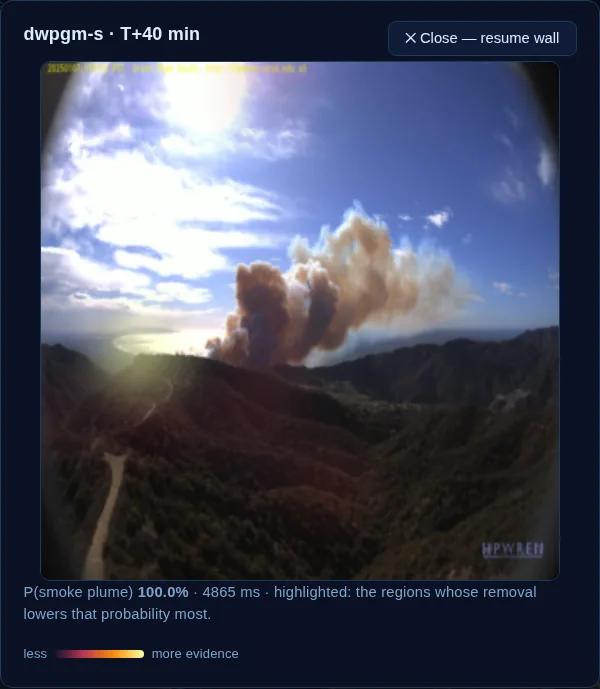
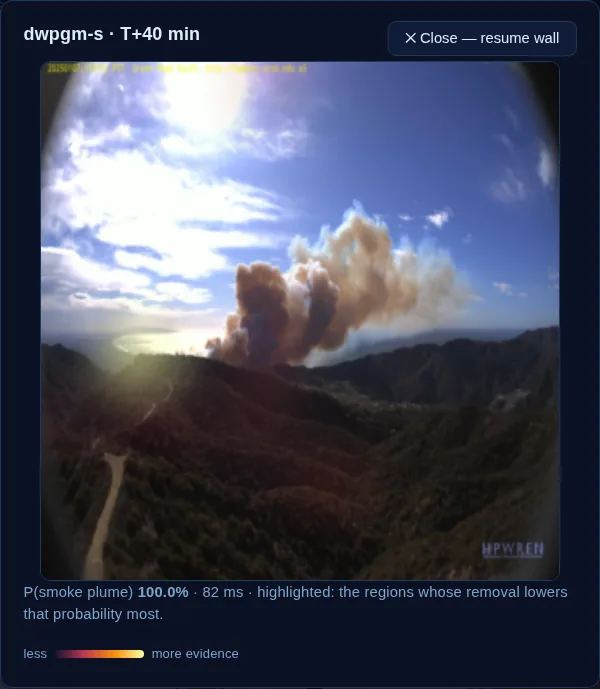
fix: Keep wall controls fire-free and curb false alarms
A no-fire control showed a real plume and one fire raised many alerts
before its smoke, both on the Watch Wall of wildfire_smoke_watch.

- control_margin_seconds: a no-event control stops 15 min before the
  annotated start. ml-n's smoke probability is 83% at -14 min and 98% at
  -1 min: a plume was visible before the annotation
- early_grace_seconds: an alert up to 5 min before the annotated start is
  an early detection (counted as a detection, shown amber), not a false
  alarm; a control never gets grace
- stricter default alert rule (70%, 3 frames) and a second slider for
  frames in a row; syp-n's white cloud and a bird crossing the sky push
  single frames to 99% at the old 50% / 2 frames
- one-line verdict under each tile, early count in the false-alarm KPI
- docs: explain both lookouts honestly, and that the new defaults were
  chosen after watching the wall on the test cameras (optimistic)

Changed region(s): [[0.03, 0.8534, 0.96, 0.9144]]

diff --git a/ui-react/src/CameraWallView.tsx b/ui-react/src/CameraWallView.tsx
@@ -43,7 +43,10 @@ export function CameraWallView({
     0,
     labelsOf(scenario).findIndex((l) => l.key === extra.positive_label),
   );
-  const pool = useMemo(() => groupCameras(samples.data ?? [], positiveIndex), [samples.data, positiveIndex]);
+  const pool = useMemo(
+    () => groupCameras(samples.data ?? [], positiveIndex, extra.control_margin_seconds),
+    [samples.data, positiveIndex, extra.control_margin_seconds],
+  );
   // Which of the held-out cameras are on the wall: the scenario's default until the viewer swaps them.
   const [picked, setPicked] = useState<string[] | null>(null);
   const [pickerOpen, setPickerOpen] = useState(false);
@@ -59,6 +62,7 @@ export function CameraWallView({
   const [running, setRunning] = useState(true);
   const [speed, setSpeed] = useState(1);
   const [threshold, setThreshold] = useState(extra.alert_threshold);
+  const [consecutive, setConsecutive] = useState(extra.consecutive_frames_to_alert);
   const [showCurve, setShowCurve] = useState(false);
   const [selected, setSelected] = useState<string | null>(null);
   const [liveError, setLiveError] = useState<string | null>(null);
@@ -105,7 +109,7 @@ export function CameraWallView({
   const scored = cameras.map((camera) => {
     const last = Math.min(step, camera.frames.length - 1);
     const ps = camera.frames.slice(0, last + 1).map((f) => live.current.get(f.id)?.p ?? f.pPre);
-    return { camera, last, ps, analysis: analyseCamera(camera, ps, threshold, extra.consecutive_frames_to_alert, step) };
+    return { camera, last, ps, analysis: analyseCamera(camera, ps, threshold, consecutive, step, extra.early_grace_seconds) };
   });
   const summary = summarise(cameras, scored.map((s) => s.analysis), step);
   const feed = scored
@@ -200,15 +204,19 @@ export function CameraWallView({
           <StatTile
             label="False alarms"
             value={String(summary.falseAlarms)}
-            sub={`of ${summary.alerts} alert${summary.alerts === 1 ? "" : "s"}`}
+            sub={`of ${summary.alerts} alert${summary.alerts === 1 ? "" : "s"}${summary.early ? ` · ${summary.early} early` : ""}`}
             color={summary.falseAlarms ? "var(--red)" : "var(--green)"}
-            info={`An alert raised before the ${noun} had appeared in that recording.`}
+            info={`An alert raised more than ${Math.round(extra.early_grace_seconds / 60)} min before the ${noun} appeared in that recording (or at all, on a no-fire control). An alert within ${Math.round(extra.early_grace_seconds / 60)} min before it is counted as an early detection instead: the annotation is when a person first saw the plume.`}
           />
         </div>
         <div className="dl-threshold">
           <label>
-            Alert when P({noun}) ≥ <strong>{pct(threshold, 0)}</strong> for {extra.consecutive_frames_to_alert} frames in a row
+            Alert when P({noun}) ≥ <strong>{pct(threshold, 0)}</strong>
             <input type="range" min={0.1} max={0.95} step={0.05} value={threshold} onChange={(e) => setThreshold(Number(e.target.value))} />
+          </label>
+          <label>
+            for <strong>{consecutive}</strong> frame{consecutive === 1 ? "" : "s"} in a row
+            <input type="range" min={1} max={6} step={1} value={consecutive} onChange={(e) => setConsecutive(Number(e.target.value))} />
           </label>
           <label className="dl-check">
             <input type="checkbox" checked={showCurve} onChange={(e) => setShowCurve(e.target.checked)} /> Show each camera's whole recording
@@ -294,10 +302,12 @@ export function CameraWallView({
           {feed.length === 0 && <p className="panel-hint">No alerts yet — every camera is quiet.</p>}
           <ul>
             {feed.map((a) => (
-              <li key={`${a.camera}-${a.index}`} className={a.falseAlarm ? "wall-alert wall-alert--false" : "wall-alert"}>
+              <li key={`${a.camera}-${a.index}`} className={`wall-alert${a.falseAlarm ? " wall-alert--false" : a.early ? " wall-alert--early" : ""}`}>
                 <strong>{a.camera}</strong> <span className="wall-when">{offsetLabel(a.seq)}</span>
                 <div>
-                  {a.falseAlarm
+                  {a.early
+                    ? `Early — ${noun} flagged ${Math.round(-a.seq / 60)} min before it was annotated as visible`
+                    : a.falseAlarm
                     ? isControl(a.camera)
                       ? `False alarm — ${noun} flagged, but this lookout has no fire`
                       : `False alarm — ${noun} flagged before it had appeared`
@@ -324,6 +334,26 @@ export function CameraWallView({
       )}
     </div>
   );
+}
+
+/** One line under a tile: what this camera has done so far. */
+function tileVerdict(camera: WallCamera, analysis: CameraAnalysis, index: number, noun: string): { text: string; tone: "ok" | "warn" | "bad" | "idle" } {
+  const falseAlarms = analysis.alerts.filter((a) => a.falseAlarm).length;
+  const early = analysis.alerts.find((a) => a.early);
+  if (camera.control) {
+    if (falseAlarms) return { text: `✗ ${falseAlarms} false alarm${falseAlarms === 1 ? "" : "s"} — there is no fire here`, tone: "bad" };
+    return { text: index > 0 ? "✓ no alerts — correctly quiet" : "watching a lookout with no fire", tone: index > 0 ? "ok" : "idle" };
+  }
+  const parts: string[] = [];
+  if (analysis.detectedAt !== null) {
+    const m = Math.round(camera.frames[analysis.detectedAt].seq / 60);
+    parts.push(m < 0 ? `✓ ${noun} flagged ${-m} min early` : m === 0 ? `✓ ${noun} flagged at T+0` : `✓ ${noun} flagged T+${m} min`);
+  } else if (index >= camera.ignition) {
+    parts.push(`… ${noun} not flagged yet`);
+  }
+  if (falseAlarms) parts.push(`${falseAlarms} false alarm${falseAlarms === 1 ? "" : "s"}`);
+  else if (early && analysis.detectedAt === null) parts.push("early alert");
+  return { text: parts.join(" · ") || "watching", tone: falseAlarms ? "warn" : analysis.detectedAt !== null ? "ok" : "idle" };
 }
 
 function CameraTile({
@@ -367,6 +397,7 @@ function CameraTile({
   const missed = index >= camera.ignition && analysis.detectedAt === null;
   const state = alarm ? "alarm" : missed ? "missed" : "clear";
   const last = camera.frames.length - 1;
+  const verdict = tileVerdict(camera, analysis, index, noun);
   const x = (i: number) => (last ? (i / last) * 100 : 0);
   const y = (v: number) => 30 - Math.min(1, Math.max(0, v)) * 28;
   const path = (values: number[]) => values.map((v, i) => `${i ? "L" : "M"}${x(i).toFixed(1)} ${y(v).toFixed(1)}`).join(" ");
@@ -394,6 +425,7 @@ function CameraTile({
           <circle cx={x(index)} cy={y(p)} r="1.8" className="wall-spark-dot" />
         </svg>
       </div>
+      <div className={`wall-verdict wall-verdict--${verdict.tone}`}>{verdict.text}</div>
     </button>
   );
 }

diff --git a/ui-react/src/cameraWallLogic.ts b/ui-react/src/cameraWallLogic.ts
@@ -7,8 +7,11 @@ export type WallFrame = { id: string; seq: number; pPre: number };
 /** `control`: the recording holds no event at all (ignition = past the last frame) — a feed where every alert is a false alarm. */
 export type WallCamera = { name: string; frames: WallFrame[]; ignition: number; control: boolean };
 
-/** Group the published samples (recording order, tagged `group`/`seq`) into one camera each. */
-export function groupCameras(samples: DlSample[], positiveIndex: number): WallCamera[] {
+/** Group the published samples (recording order, tagged `group`/`seq`) into one camera each.
+ * A no-event control stops `controlMarginSeconds` before the recording's annotated event: the
+ * annotation is when a person first saw the plume, so the footage just before it can already
+ * hold the event (a control must never show one). */
+export function groupCameras(samples: DlSample[], positiveIndex: number, controlMarginSeconds = 0): WallCamera[] {
   const byCamera = new Map<string, WallFrame[]>();
   for (const s of samples) {
     if (s.group == null || s.seq == null) continue;
@@ -16,29 +19,42 @@ export function groupCameras(samples: DlSample[], positiveIndex: number): WallCa
     frames.push({ id: s.id, seq: s.seq, pPre: s.probs[positiveIndex] ?? 0 });
     byCamera.set(s.group, frames);
   }
-  return [...byCamera].map(([name, frames]) => {
-    frames.sort((a, b) => a.seq - b.seq);
+  return [...byCamera].map(([name, all]) => {
+    all.sort((a, b) => a.seq - b.seq);
+    const control = !all.some((f) => f.seq >= 0);
+    const kept = control && controlMarginSeconds > 0 ? all.filter((f) => f.seq < -controlMarginSeconds) : all;
+    const frames = kept.length >= 8 ? kept : all; // never trim a feed down to nothing
     const first = frames.findIndex((f) => f.seq >= 0);
-    const ignition = first === -1 ? frames.length : first;
-    return { name, frames, ignition, control: ignition === frames.length };
+    return { name, frames, ignition: first === -1 ? frames.length : first, control };
   });
 }
 
-export type WallAlert = { camera: string; index: number; seq: number; p: number; falseAlarm: boolean };
+export type WallAlert = {
+  camera: string;
+  index: number;
+  seq: number;
+  p: number;
+  /** Raised before the event and outside the grace window: a false alarm. */
+  falseAlarm: boolean;
+  /** Raised within the grace window before the event: the plume was probably already there. */
+  early: boolean;
+};
 export type CameraAnalysis = {
   /** Alarm state of every frame up to `upto` (inclusive). */
   alarmOn: boolean[];
   /** Rising edges of the alarm: a new alert each time smoke persists after a clear spell. */
   alerts: WallAlert[];
-  /** Index of the first frame at/after the event at which the alarm was on, or null. */
+  /** Index of the first frame at/after the start of the grace window with the alarm on, or null. */
   detectedAt: number | null;
 };
 
 /**
  * Alerting rule: the alarm is on once `consecutive` frames in a row reach `threshold`, and
- * off as soon as a frame falls below it. An alert is the alarm switching on; it is a *false
- * alarm* when that happens before the event (negative `seq`). Detection = the first frame
- * at/after the event with the alarm on — so a camera already ringing at ignition counts as
+ * off as soon as a frame falls below it. An alert is the alarm switching on. Before the event
+ * (negative `seq`) it is *early* within `graceSeconds` of it — the annotation is when a person
+ * first saw the plume, so the model may fairly see it a little sooner — and a *false alarm*
+ * earlier than that (always, on a control). Detection = the first frame at/after the start of
+ * the grace window with the alarm on, so a camera already ringing at ignition counts as
  * detected at once, never as "missed". `p[i]` of null = not scored (the run is broken).
  */
 export function analyseCamera(
@@ -47,21 +63,25 @@ export function analyseCamera(
   threshold: number,
   consecutive: number,
   upto: number,
+  graceSeconds = 0,
 ): CameraAnalysis {
   const alarmOn: boolean[] = [];
   const alerts: WallAlert[] = [];
   let run = 0;
   let detectedAt: number | null = null;
   const last = Math.min(upto, camera.frames.length - 1);
+  const grace = camera.control ? 0 : graceSeconds;
   for (let i = 0; i <= last; i++) {
     const v = p[i];
+    const seq = camera.frames[i].seq;
     run = v != null && v >= threshold ? run + 1 : 0;
     const on = run >= consecutive;
     alarmOn.push(on);
     if (on && !alarmOn[i - 1]) {
-      alerts.push({ camera: camera.name, index: i, seq: camera.frames[i].seq, p: v ?? 0, falseAlarm: camera.frames[i].seq < 0 });
+      const early = !camera.control && seq < 0 && seq >= -grace;
+      alerts.push({ camera: camera.name, index: i, seq, p: v ?? 0, falseAlarm: seq < 0 && !early, early });
     }
-    if (on && detectedAt === null && camera.frames[i].seq >= 0) detectedAt = i;
+    if (on && detectedAt === null && !camera.control && seq >= -grace) detectedAt = i;
   }
   return { alarmOn, alerts, detectedAt };
 }
@@ -69,10 +89,12 @@ export function analyseCamera(
 export type WallSummary = {
   alerts: number;
   falseAlarms: number;
+  /** Alerts raised just before the annotated event (probably a genuinely earlier plume). */
+  early: number;
   detected: number;
   /** Cameras whose event has already happened at `upto` without an alarm. */
   undetected: number;
-  /** Mean minutes from the event first being visible to the alarm, over detected cameras. */
+  /** Mean minutes from the event first being visible to the alarm (negative = before), over detected cameras. */
   meanDelayMinutes: number | null;
 };
 
@@ -81,11 +103,13 @@ export function summarise(cameras: WallCamera[], analyses: CameraAnalysis[], upt
   let undetected = 0;
   let delay = 0;
   let falseAlarms = 0;
+  let early = 0;
   let alerts = 0;
   cameras.forEach((camera, c) => {
     const a = analyses[c];
     alerts += a.alerts.length;
     falseAlarms += a.alerts.filter((x) => x.falseAlarm).length;
+    early += a.alerts.filter((x) => x.early).length;
     if (a.detectedAt !== null) {
       detected += 1;
       delay += camera.frames[a.detectedAt].seq / 60;
@@ -93,7 +117,7 @@ export function summarise(cameras: WallCamera[], analyses: CameraAnalysis[], upt
       undetected += 1;
     }
   });
-  return { alerts, falseAlarms, detected, undetected, meanDelayMinutes: detected ? delay / detected : null };
+  return { alerts, falseAlarms, early, detected, undetected, meanDelayMinutes: detected ? delay / detected : null };
 }
 
 /** "T−12 min" / "T+0" / "T+7 min": time relative to the event first being visible. */

diff --git a/ui-react/src/cameraWall.css b/ui-react/src/cameraWall.css
@@ -261,3 +261,21 @@
 .wall-pick .wall-when {
   margin-left: auto;
 }
+.wall-verdict {
+  padding: 0.3rem 0.6rem 0.45rem;
+  font-size: 0.78rem;
+  color: var(--dim);
+}
+.wall-verdict--ok {
+  color: var(--green);
+}
+.wall-verdict--warn {
+  color: var(--amber);
+}
+.wall-verdict--bad {
+  color: var(--red);
+}
+.wall-alert--early {
+  border-left-color: var(--amber);
+  background: rgba(255, 207, 77, 0.08);
+}

diff --git a/ui-react/src/apiClient.ts b/ui-react/src/apiClient.ts
@@ -202,6 +202,8 @@ export type CameraWallExtra = {
   alert_threshold: number;
   consecutive_frames_to_alert: number;
   tick_ms: number;
+  early_grace_seconds: number;
+  control_margin_seconds: number;
   wall_size: number;
   default_cameras: string[];
   tab_label: string;

diff --git a/libs/shared/src/ai_circus_shared/scenario_schema.py b/libs/shared/src/ai_circus_shared/scenario_schema.py
@@ -600,6 +600,12 @@ class CameraWallExtra(BaseModel):
     alert_threshold: float = Field(default=0.5, gt=0, lt=1)
     consecutive_frames_to_alert: int = Field(default=2, ge=1, le=10)
     tick_ms: int = Field(default=700, ge=100, le=5000)
+    # The recording's "event at offset 0" is when an annotator first saw it, so a plume can be there
+    # minutes earlier. An alert up to `early_grace_seconds` before offset 0 is an *early detection*,
+    # not a false alarm; and a no-event control stops `control_margin_seconds` before offset 0 so it
+    # never reaches footage where the event has already begun.
+    early_grace_seconds: int = Field(default=300, ge=0, le=1800)
+    control_margin_seconds: int = Field(default=900, ge=0, le=2400)
     # The wall shows `wall_size` of the held-out cameras at once; the viewer can swap which ones
     # (a pool bigger than the wall, fires and no-fire controls alike). `default_cameras` (camera
     # names, in tile order) is what it opens with; empty = the first `wall_size`.

diff --git a/libs/shared/tests/test_scenario_schema.py b/libs/shared/tests/test_scenario_schema.py
@@ -738,6 +738,15 @@ def test_camera_wall_pool_default_cameras_and_clear_only_controls() -> None:
         )
 
 
+def test_camera_wall_grace_and_control_margin_defaults_and_bounds() -> None:
+    wall = CameraWallExtra(positive_label="b")
+    assert (wall.early_grace_seconds, wall.control_margin_seconds) == (300, 900)
+    with pytest.raises(ValidationError):
+        CameraWallExtra(positive_label="b", early_grace_seconds=-1)
+    with pytest.raises(ValidationError):
+        CameraWallExtra(positive_label="b", control_margin_seconds=99999)
+
+
 def test_wildfire_scenario_keeps_every_lookout_in_exactly_one_split() -> None:
     """A station seen in training would turn "a camera the model never saw" into a leak."""
     from pathlib import Path

diff --git a/docs/scenarios/wildfire_smoke_watch.md b/docs/scenarios/wildfire_smoke_watch.md
@@ -19,7 +19,7 @@ every alert on one is a false alarm), and you choose which six of the eleven hel
 |---|---|
 | **Question** | Is there a smoke plume anywhere in this lookout frame — and how quickly does a live alarm catch a fire that nobody has reported yet? |
 | **Data** | **HPWREN Fire Ignition images Library (FIgLib)** — fixed lookout cameras in Southern California. Each recording is **81 frames, one a minute, from 40 minutes before to 40 minutes after** the plume first becomes visible; the frame file name (`<unix_ts>_<±offset seconds>.jpg`) *is* the ground truth. 25 recordings are used, one per lookout station (~1.7 GB, downloaded once, pinned by SHA-256, **never committed**). |
-| **Split** | **By lookout, not by frame.** 12 lookouts train (843 frames), 2 validate/calibrate (140), and **11 are held out (757 frames) — stations the model has never seen**: 8 fires plus 3 **no-fire controls** (the pre-ignition half of a lookout, `clear_only`, 31–40 frames). The Watch Wall shows six at a time. The scenario's own tests refuse a YAML in which a station appears in two places. |
+| **Split** | **By lookout, not by frame.** 12 lookouts train (843 frames), 2 validate/calibrate (140), and **11 are held out (757 frames) — stations the model has never seen**: 8 fires plus 3 **no-fire controls** (the pre-ignition half of a lookout, `clear_only`; the wall shows only the first 25 frames, stopping 15 minutes before the annotated start). The Watch Wall shows six at a time. The scenario's own tests refuse a YAML in which a station appears in two places. |
 | **Model** | `facebook/convnextv2-nano-22k-224` fine-tuned (15.0 M parameters) at 320 px, **60 MB ONNX**, served by the same CPU-only `dl-inference` pod as the other vision scenarios — no extra container, no extra memory ceiling. |
 | **Target** | `Clear` / `Smoke` per frame |
 
@@ -35,9 +35,11 @@ tile says honestly where its number came from:
   UI never claims an inference it didn't make.
 
 An **alert** is the alarm switching on after *N* consecutive frames at or above the threshold
-(defaults: 50 %, 2 frames). It is timed against the recording's ground truth: **minutes after the
-plume first became visible** (the detection delay), or a **false alarm** if it fires before the plume
-exists — on a control, any alert is one. **🎛 Change cameras** opens a picker over all eleven held-out
+(defaults: 70 %, 3 frames; both are sliders). It is timed against the recording's ground truth:
+**minutes after the plume first became visible** (the detection delay). An alert up to 5 minutes
+*before* that is an **early detection** — the annotation is when a person first saw the plume, so
+the model may fairly see it sooner — and anything earlier is a **false alarm**; on a control, any
+alert is one. Each tile ends with a one-line verdict (`✓ flagged T+11 min`, `✓ correctly quiet`, …). **🎛 Change cameras** opens a picker over all eleven held-out
 lookouts (fires tagged `fire`, controls `no fire`); the default wall is four fires and two controls.
 Drag the threshold and every KPI recomputes instantly; tick *Show each camera's whole
 recording* to overlay the entire probability curve; click a tile to pause the wall and trace where
@@ -60,17 +62,25 @@ ignition, when the plume is a few pixels and no model (or person) can tell:
 |---|---|
 | Frame accuracy / macro-F1 | **89.3 %** / 0.890 |
 | AUROC | **0.914** |
-| Default wall (4 fires + 2 controls), threshold 50 %, 2 frames | **4 / 4 fires detected**, mean **4.5 min** after the plume first appeared; **both controls silent**; but **4 false alarms**, all on `syp-n` (Whittier) before ignition at P 51–73 % |
+| Default wall (4 fires + 2 controls), 70 %, 3 frames | **4 / 4 fires detected**, mean **5.2 min** after the plume first appeared; **both controls silent; 0 false alarms**, 1 early detection (`syp-n`, 4 min before its annotation) |
+| Same wall at the old 50 %, 2 frames | the same fires, but **4 false alarms** on `syp-n` before its ignition |
 | Calibration | ECE 0.076 — the temperature fit on two validation lookouts made it *worse* than the raw model (0.045); read the probabilities as a ranking, not as frequencies |
 
-Two caveats on those wall numbers:
+Things to know about those wall numbers:
 
+- **The alert rule was tuned on what you see.** I chose 70 % / 3 frames *after* watching `syp-n` raise
+  false alarms at 50 % / 2, on the same held-out cameras the wall shows. So the wall is optimistic;
+  an honest estimate needs a threshold fixed on the two validation lookouts, or a fresh set of cameras.
+- **`syp-n` is a hard lookout.** A white cumulus-like puff sits on its left horizon for the whole
+  recording (already there at −36 min) and a bird crosses the sky at −22 min, where the model hits 99 %.
+  The model does see real haze rising from about −7 min, a few minutes before the annotation.
+- **`ml-n` is not a clean control after −15 min.** Its smoke probability jumps to 83 % at −14 min and
+  98 % at −1 min: a real plume was visible before the annotated start. The wall therefore stops every
+  control 15 minutes before the annotation (`control_margin_seconds`), so none can reach a fire.
 - **They move between training runs.** GPU training is not bit-for-bit repeatable. An earlier run of
-  the same recipe, scored on a different six-fire wall, detected 6 / 6 with no false alarms and a
-  10.2 min mean. Treat the wall as an illustration of how the system behaves, not as a benchmark.
-- **A camera already ringing at ignition counts as detected at once.** `syp-n` raised its false
-  alarms before the plume appeared and was still alarming when it did, which pulls the mean time to
-  alert down. Drag the threshold up and watch the false alarms trade against the delay.
+  the same recipe, on a different six-fire wall, detected 6 / 6 with no false alarms and a 10.2 min mean.
+- **A camera already ringing at ignition counts as detected at once**, and an early alert counts as a
+  detection with a negative delay, which pulls the mean down.
 
 Why the model is not better, and why that is the honest answer:
 
